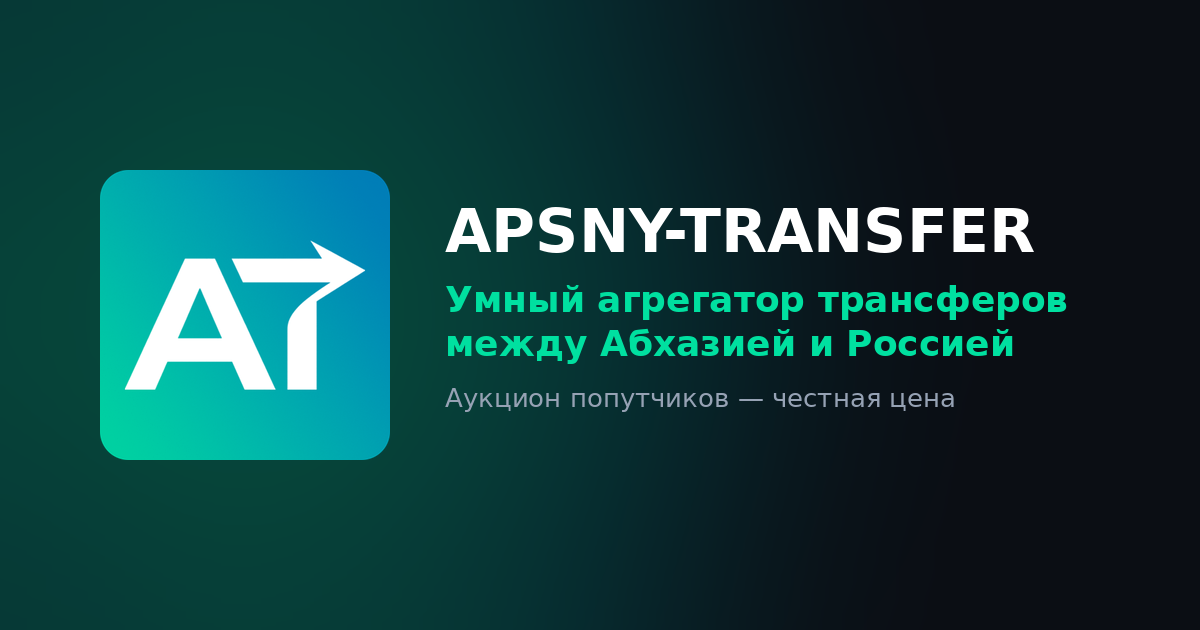
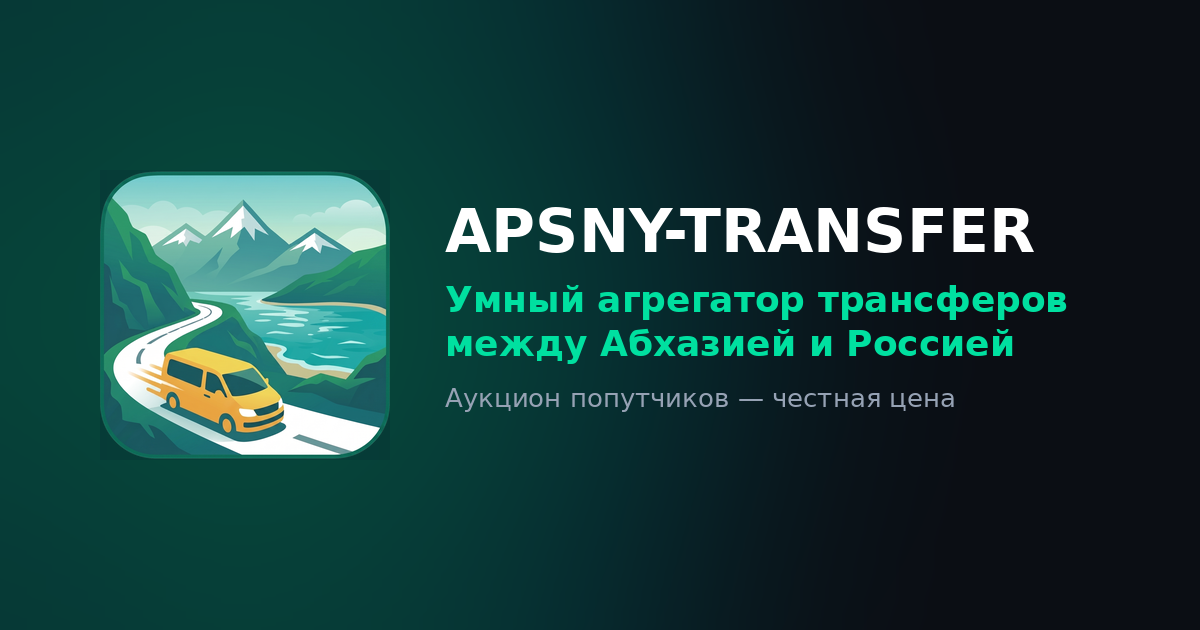
feat: новый логотип — иллюстрация вместо монограммы AT
Пересобраны все значки: 192/512, maskable для Android, apple-touch, фавиконки, favicon.ico, карточка для соцсетей. Правок в коде не потребовалось — все девять мест ссылаются на один файл.

Фавиконка 16/32 сделана кадром с микроавтобусом: полная иллюстрация на таком размере нечитаема. Исходник и скрипт пересборки вынесены в brand/ — в public/ лежит только то, что уезжает на сервер.

Changed region(s): [[0.0617, 0.2714, 0.3392, 0.754]]

diff --git a/brand/make-icons.py b/brand/make-icons.py
@@ -1,0 +1,123 @@
+#!/usr/bin/env python3
+"""
+Пересборка всех значков сайта и приложения из public/logo.png.
+
+Исходник — 1807x1789 (не квадрат, разница 18 px), поэтому сначала
+дополняется до квадрата прозрачным полем, иначе при масштабировании
+логотип сплющило бы.
+
+Три семейства файлов делаются по-разному, и это не прихоть:
+
+  • обычные значки (192, 512, icon.png) — прозрачные углы сохраняются,
+    их скругляет либо система, либо CSS на самом сайте;
+
+  • maskable для Android — система обрезает значок по кругу и заливает
+    углы. Поэтому нужна сплошная подложка и «безопасная зона»: рисунок
+    ужимается до 80% и центрируется, иначе горы и рамка уедут под обрез;
+
+  • apple-touch-icon — iOS не умеет прозрачность и заливает её чёрным.
+    Поэтому тоже сплошная подложка, но без ужимания: iOS скругляет сам.
+
+Фавиконки 16 и 32 — отдельный случай. Полная иллюстрация на таком
+размере превращается в неразборчивое пятно (проверено), поэтому для них
+берётся кадр с микроавтобусом крупным планом.
+"""
+
+from PIL import Image
+import os
+
+PUBLIC = os.path.join(os.path.dirname(os.path.dirname(os.path.abspath(__file__))), 'public')
+ICONS = os.path.join(PUBLIC, 'icons')
+
+# Фон сайта (--color-surface / theme-color в index.html). Используется там,
+# где прозрачность недопустима.
+BG = (16, 19, 26, 255)
+
+# Доля рисунка внутри maskable-значка. Спецификация требует, чтобы всё
+# значимое умещалось в круг диаметром 80% от стороны.
+SAFE = 0.80
+
+# Кадр под фавиконку: микроавтобус на дороге. Доли от размера исходника,
+# подобраны и проверены на увеличенных превью.
+VAN_BOX = (0.14, 0.55, 0.62, 0.92)
+
+
+def load_square(path):
+    """Открывает логотип и дополняет до квадрата прозрачным полем."""
+    im = Image.open(path).convert('RGBA')
+    s = max(im.size)
+    sq = Image.new('RGBA', (s, s), (0, 0, 0, 0))
+    sq.paste(im, ((s - im.size[0]) // 2, (s - im.size[1]) // 2))
+    return sq
+
+
+def on_bg(im, bg=BG):
+    """Кладёт картинку на сплошную подложку — убирает прозрачность."""
+    plate = Image.new('RGBA', im.size, bg)
+    return Image.alpha_composite(plate, im)
+
+
+def save(im, path, keep_alpha=True):
+    im = im.convert('RGBA') if keep_alpha else im.convert('RGB')
+    im.save(path, 'PNG', optimize=True)
+    print(f'  {os.path.relpath(path, PUBLIC):28} {im.size[0]}x{im.size[1]:<5} '
+          f'{os.path.getsize(path) / 1024:7.1f} КБ')
+
+
+def plain(src, size):
+    """Обычный значок: прозрачные углы сохраняются."""
+    return src.resize((size, size), Image.LANCZOS)
+
+
+def maskable(src, size):
+    """Значок под обрезку системой: подложка + рисунок в безопасной зоне."""
+    inner = int(size * SAFE)
+    canvas = Image.new('RGBA', (size, size), BG)
+    art = src.resize((inner, inner), Image.LANCZOS)
+    off = (size - inner) // 2
+    canvas.alpha_composite(art, (off, off))
+    return canvas
+
+
+def van(src, size):
+    """Кадр с микроавтобусом — для мелких размеров, где иллюстрация не читается."""
+    W, H = src.size
+    box = (int(W * VAN_BOX[0]), int(H * VAN_BOX[1]),
+           int(W * VAN_BOX[2]), int(H * VAN_BOX[3]))
+    c = src.crop(box)
+    s = max(c.size)
+    sq = Image.new('RGBA', (s, s), (0, 0, 0, 0))
+    sq.paste(c, ((s - c.size[0]) // 2, (s - c.size[1]) // 2))
+    return sq.resize((size, size), Image.LANCZOS)
+
+
+def main():
+    src = load_square(os.path.join(os.path.dirname(os.path.abspath(__file__)), 'logo.png'))
+    print(f'Исходник приведён к квадрату: {src.size[0]}x{src.size[1]}\n')
+
+    print('Обычные значки (прозрачные углы):')
+    save(plain(src, 192), os.path.join(ICONS, 'icon-192.png'))
+    save(plain(src, 512), os.path.join(ICONS, 'icon-512.png'))
+    save(plain(src, 512), os.path.join(ICONS, 'icon.png'))
+
+    print('\nMaskable для Android (подложка + безопасная зона 80%):')
+    save(maskable(src, 192), os.path.join(ICONS, 'icon-192-maskable.png'), keep_alpha=False)
+    save(maskable(src, 512), os.path.join(ICONS, 'icon-512-maskable.png'), keep_alpha=False)
+
+    print('\nApple touch icon (без прозрачности, iOS скругляет сам):')
+    save(on_bg(plain(src, 180)), os.path.join(ICONS, 'apple-touch-icon.png'), keep_alpha=False)
+
+    print('\nФавиконки — кадр с микроавтобусом:')
+    save(van(src, 16), os.path.join(ICONS, 'favicon-16.png'))
+    save(van(src, 32), os.path.join(ICONS, 'favicon-32.png'))
+
+    # favicon.ico — многоразмерный: 16 и 32 берём кадром с фургоном,
+    # 48 уже достаточно крупный, чтобы показать иллюстрацию целиком.
+    ico = os.path.join(PUBLIC, 'favicon.ico')
+    van(src, 32).save(ico, format='ICO',
+                      sizes=[(16, 16), (24, 24), (32, 32), (48, 48)])
+    print(f'\n  {"favicon.ico":28} 16/24/32/48  {os.path.getsize(ico) / 1024:7.1f} КБ')
+
+
+if __name__ == '__main__':
+    main()

diff --git a/CHANGELOG.md b/CHANGELOG.md
@@ -5,6 +5,52 @@
 ---
 
 [2026-08-13]
+Новый логотип: вместо монограммы «AT» на бирюзовом градиенте — иллюстрация с
+горным серпантином, морем и жёлтым микроавтобусом.
+
+Из исходника пересобраны все девять файлов: значки 192 и 512 для установки
+приложения, отдельные версии под обрезку системой на Android, значок для iOS,
+фавиконки 16 и 32, многоразмерный `favicon.ico` и карточка для соцсетей.
+Заменять руками в коде ничего не пришлось — все девять мест в интерфейсе
+(шапка, подвал, боковое меню, экран загрузки, страница входа, квитанция,
+предложение установить приложение) ссылаются на один и тот же файл.
+
+**Фавиконка сделана из другого кадра, и это не случайность.** Иллюстрация
+подробная: горы, залив, дорога, машина. На 16 пикселях от неё остаётся зелёное
+пятно с жёлтым мазком — я это проверил, увеличив реальный результат, и понять,
+что там изображено, невозможно. Поэтому во вкладке браузера показывается кадр
+крупным планом — микроавтобус на дороге. На 16 точках он читается как машина,
+на 32 — отчётливо. Везде крупнее 32 пикселей используется полная иллюстрация.
+
+**Значки для рабочего стола сделаны по-разному, тоже не просто так.** Android
+обрезает значок по кругу и заливает углы своим цветом, поэтому для него рисунок
+ужат до 80% и центрирован на сплошной подложке — иначе горы и рамка уехали бы
+под обрез. iOS прозрачность не поддерживает вовсе и заливает её чёрным, так что
+там тоже сплошная подложка, но без ужимания: скругляет система сама. Цвет
+подложки — фон сайта, тот же, что у экрана загрузки.
+
+Карточка для соцсетей пересобрана бережно: заменён только квадрат со значком,
+текст и фоновый градиент остались нетронутыми до пикселя. Подложка под старым
+значком восстановлена из самого изображения — градиент карточки оказался строго
+горизонтальным, так что шва не видно.
+
+Значки оставлены без сжатия палитрой. Оно давало экономию под 90%, но на
+увеличении по склонам гор шла заметная рябь: рисунок плоский, и 256 цветов ему
+мало. Сжатие без потерь дало всего 5%, поэтому 192-й значок теперь весит 56 КБ
+против прежних 30. Если это окажется заметно, правильное решение — не портить
+картинку, а добавить отдельный файл на 96 пикселей для интерфейса: крупнее
+84 точек он на сайте нигде не показывается.
+
+Исходник `logo.png` перенесён из `public/` в новую папку `brand/` вместе со
+скриптом пересборки. В `public/` лежит всё, что уезжает на сервер, а исходник
+весит 3,4 МБ и никем не запрашивается — он бы просто занимал место в каждом
+развёртывании. Скрипт `brand/make-icons.py` собирает все девять файлов заново
+одной командой, так что следующая смена логотипа — это подменить исходник и
+запустить его.
+
+---
+
+[2026-08-13]
 Пять дефектов из того же аудита — те, что видит человек.
 
 **Ползунок полосы прокрутки был невидим.** В стилях он закрашивался переменной
